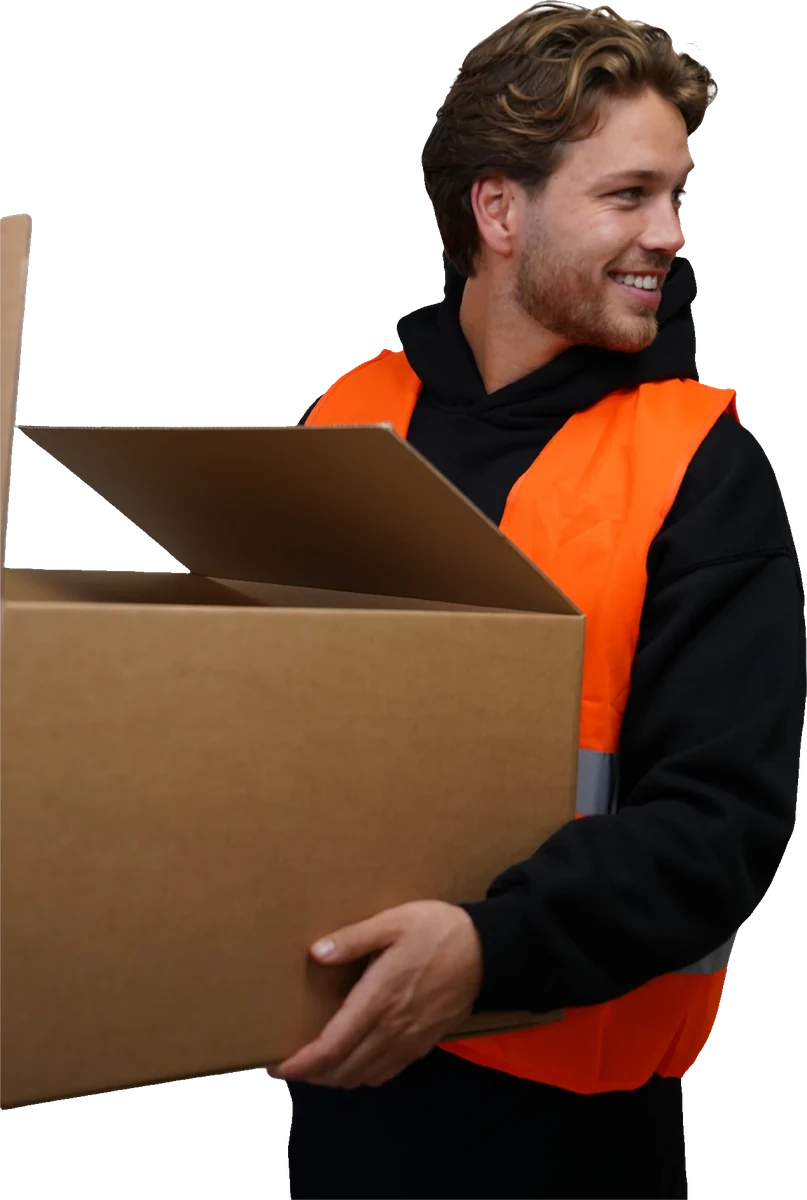
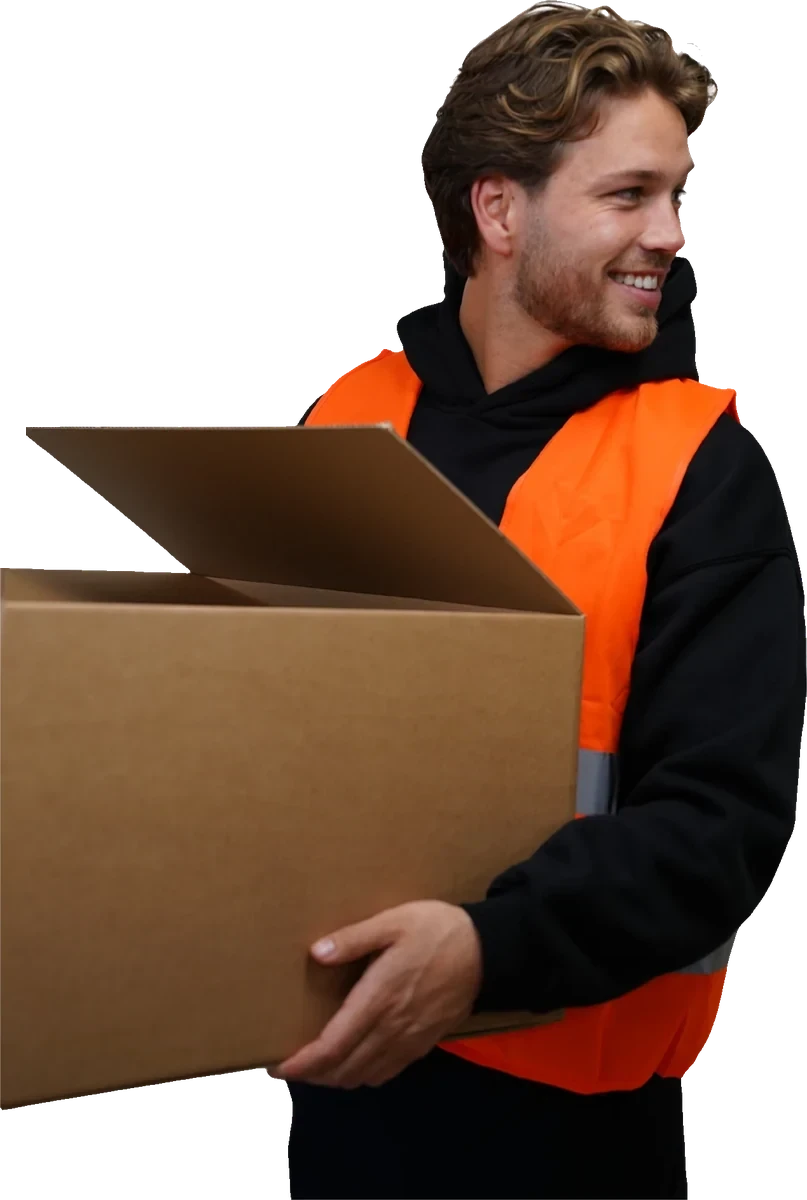
Dashboard-team: gelijk verdeeld (Daan rechts van Peter), Peter groter, flap links van de doos weg

Changed region(s): [[0.0, 0.1542, 0.062, 0.4625]]

diff --git a/css/dashboard.css b/css/dashboard.css
@@ -529,12 +529,15 @@ a.mail-rij:hover{background:#f7f9f1;text-decoration:none}
 /* Team: vijf losse uitsneden, absoluut geplaatst over de volle breedte. */
 .dk-team{position:relative;height:300px;margin:0 -26px;pointer-events:none}
 .dk-team img{position:absolute;bottom:-210px;height:490px;width:auto;filter:drop-shadow(0 16px 30px rgba(0,0,0,.22))}
+/* Gelijk verdeeld (2 nov 2026, Tjeerd: "rechts meer witruimte dan links"):
+   twee links, Peter in het midden, drie rechts; de doos vult de linkerrand.
+   Elke uitsnede staat met het midden van de persoon op zijn plek. */
 .dk-team .t-doos{left:0;z-index:1}
-.dk-team .t-daan{left:17%;height:430px;bottom:-160px;z-index:2}
-.dk-team .t-helm{left:30%;height:480px;z-index:3}
-.dk-team .t-peter{left:50%;transform:translateX(-50%);height:400px;bottom:-150px;z-index:4}
-.dk-team .t-hamer{right:21%;height:480px;z-index:2}
-.dk-team .t-food{right:0;height:500px;z-index:1}
+.dk-team .t-helm{left:32%;transform:translateX(-50%);height:480px;z-index:3}
+.dk-team .t-peter{left:48.5%;transform:translateX(-50%);height:460px;bottom:-170px;z-index:5}
+.dk-team .t-daan{left:62.5%;transform:translateX(-50%);height:430px;bottom:-160px;z-index:4}
+.dk-team .t-hamer{left:76.5%;transform:translateX(-50%);height:440px;bottom:-180px;z-index:2}
+.dk-team .t-food{right:0;height:500px;z-index:3}
 
 /* Het paneel. De lichtbreking langs de rand zet js/dashboard.js erbij
    (lensOpPaneel); dit is het matglas waar het op terugvalt. */
@@ -603,21 +606,19 @@ button.cp-c:focus-visible{outline:2px solid var(--olive-l);outline-offset:4px}
 /* Laptop: iets kleiner en dichter naar de randen, anders schuift
    Peter Ploeg over de hamer heen. */
 @media (max-width:1600px){
-  .dk-team .t-doos,.dk-team .t-helm,.dk-team .t-hamer{height:430px;bottom:-180px}
+  .dk-team .t-doos,.dk-team .t-helm{height:430px;bottom:-180px}
+  .dk-team .t-hamer{height:395px;bottom:-150px}
   .dk-team .t-food{height:440px;bottom:-180px}
-  .dk-team .t-daan{height:385px;bottom:-135px;left:16%}
-  .dk-team .t-helm{left:29%}
-  .dk-team .t-hamer{right:17%}
-  .dk-team .t-peter{height:330px;bottom:-110px}
+  .dk-team .t-daan{height:385px;bottom:-135px}
+  .dk-team .t-peter{height:380px;bottom:-125px}
 }
 /* Smal: team kleiner, cockpitstrook onder elkaar. */
 @media (max-width:1200px){
   .dk-team{height:220px}
-  .dk-team .t-doos,.dk-team .t-helm,.dk-team .t-hamer,.dk-team .t-food{height:360px;bottom:-150px}
-  .dk-team .t-peter{height:270px;bottom:-100px}
-  .dk-team .t-daan{height:322px;bottom:-112px;left:22%}
-  .dk-team .t-helm{left:35%}
-  .dk-team .t-peter{left:55%}
+  .dk-team .t-doos,.dk-team .t-helm,.dk-team .t-food{height:360px;bottom:-150px}
+  .dk-team .t-hamer{height:330px;bottom:-120px}
+  .dk-team .t-peter{height:310px;bottom:-110px}
+  .dk-team .t-daan{height:322px;bottom:-112px}
   .cp-strook{flex-wrap:wrap;gap:16px 24px}
   .cp-sep{display:none}
   .cp-c{flex:1 1 220px}
@@ -627,7 +628,7 @@ button.cp-c:focus-visible{outline:2px solid var(--olive-l);outline-offset:4px}
   .dk-team{height:150px;margin:0 -12px}
   .dk-team .t-doos,.dk-team .t-food{height:230px;bottom:-90px}
   .dk-team .t-helm,.dk-team .t-hamer,.dk-team .t-daan{display:none}
-  .dk-team .t-peter{height:190px;bottom:-70px}
+  .dk-team .t-peter{height:220px;bottom:-78px}
   .dk-paneel{padding:14px;border-radius:22px}
 }
 

diff --git a/index.html b/index.html
@@ -16,7 +16,7 @@
      BIJ ELKE DEPLOY OPHOGEN — zoek en vervang ?v=20260810h4 door de nieuwe datum. -->
 <link rel="stylesheet" href="css/base.css?v=20261029b">
 <link rel="stylesheet" href="css/zoeklijst.css?v=20260908a">
-<link rel="stylesheet" href="css/dashboard.css?v=20261102d">
+<link rel="stylesheet" href="css/dashboard.css?v=20261102f">
 <link rel="stylesheet" href="css/salesmeter.css?v=20261027d">
 <link rel="stylesheet" href="css/sales.css?v=20260820d">
 <link rel="stylesheet" href="css/klanten.css?v=20261029a">
@@ -145,7 +145,7 @@
 <script src="js/salesmeter.js?v=20261102a"></script>
 <!-- Glas: de dashboardstijl door het hele CRM, eerst alleen voor de eigenaar. -->
 <script src="js/glas.js?v=20261027b"></script>
-<script src="js/dashboard.js?v=20261102e"></script>
+<script src="js/dashboard.js?v=20261102g"></script>
 <script src="js/sales.js?v=20261102a"></script>
 <script src="js/klanten.js?v=20261029a"></script>
 <!-- Contactpersoonkaart: eigen kaart per persoon plus een doorzoekbaar

diff --git a/js/dashboard.js b/js/dashboard.js
@@ -1354,13 +1354,13 @@ async function cockpitPosts(mount){
 /* De uitsneden, op volgorde van links naar rechts. Tjeerd (doos)
    staat tegen de linkerrand zodat de afgesneden doos aansluit, Tjerk
    (haarnetje) helemaal rechts, Peter Ploeg in het midden. Daan (witte
-   helm) kwam er op 2 nov 2026 bij, links naast Tjeerd. */
+   helm) kwam er op 2 nov 2026 bij, rechts van Peter. */
 function teamHTML(){
   return `<div class="dk-team" aria-hidden="true">
-    <img class="t-doos" src="assets/team/doos.webp" alt="">
-    <img class="t-daan" src="assets/team/daan.webp" alt="">
+    <img class="t-doos" src="assets/team/doos.webp?v=20261102" alt="">
     <img class="t-helm" src="assets/team/helm.webp" alt="">
     <img class="t-peter" src="assets/team/peter.webp" alt="">
+    <img class="t-daan" src="assets/team/daan.webp" alt="">
     <img class="t-hamer" src="assets/team/hamer.webp" alt="">
     <img class="t-food" src="assets/team/food.webp" alt="">
   </div>`;
